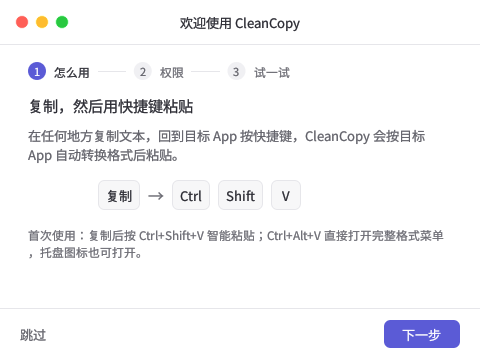
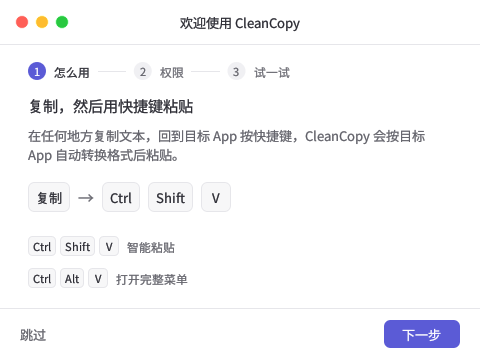
B-2: cancel hit-tests the raw press (single move+click on fresh menu); e2e screenshots default to target/, docs only with CLEANCOPY_UPDATE_SCREENSHOTS=1; onboarding box rows

diff --git a/crates/cleancopy-desktop/src/ui/menus.rs b/crates/cleancopy-desktop/src/ui/menus.rs
@@ -230,10 +230,24 @@ impl MenuState {
                         Vec2::new(54.0, 24.0),
                     );
                     text(ui, cancel.left_center(), "取消", 12.0, ACCENT);
-                    if ui
+                    // Hit-test the raw press position instead of egui's hover
+                    // state: when the menu maps under a still pointer, a single
+                    // move + click arrive in one frame and `clicked()` can miss
+                    // it (report v3 B-2). Cancelling on press is intentional.
+                    let pressed_here = ctx.input(|input| {
+                        input.events.iter().any(|event| {
+                            matches!(event, egui::Event::PointerButton {
+                                pos,
+                                button: egui::PointerButton::Primary,
+                                pressed: true,
+                                ..
+                            } if cancel.contains(*pos))
+                        })
+                    });
+                    let clicked = ui
                         .interact(cancel, ui.id().with("cancel-conversion"), Sense::click())
-                        .clicked()
-                    {
+                        .clicked();
+                    if (pressed_here || clicked) && !events.contains(&Event::Cancel { t: TIME }) {
                         events.push(Event::Cancel { t: TIME });
                     }
                     ctx.request_repaint_after(std::time::Duration::from_millis(16));
@@ -1192,9 +1206,49 @@ mod tests {
                 },
                 |ctx| events = state.show(ctx, &model, false),
             );
-            if !pressed {
+            if pressed {
                 assert_eq!(events, vec![Event::Cancel { t: TIME }]);
             }
+        }
+    }
+
+    /// Report v3 B-2: the menu maps under the pointer and the very first
+    /// input is one move plus a click, all in one frame on a fresh context
+    /// (no hover from an earlier frame). Also without any move at all.
+    #[test]
+    fn cancel_works_with_single_move_then_click_and_no_prior_hover() {
+        let mut model = render_model();
+        model.converting = true;
+        let screen = Rect::from_min_size(Pos2::ZERO, Vec2::new(960.0, 600.0));
+        let pos = Pos2::new(300.0, 200.0);
+        let click = |moved: bool| {
+            let mut input = Vec::new();
+            if moved {
+                input.push(egui::Event::PointerMoved(pos));
+            }
+            for pressed in [true, false] {
+                input.push(egui::Event::PointerButton {
+                    pos,
+                    button: egui::PointerButton::Primary,
+                    pressed,
+                    modifiers: egui::Modifiers::NONE,
+                });
+            }
+            input
+        };
+        for moved in [true, false] {
+            let ctx = egui::Context::default();
+            let mut state = MenuState::default();
+            let mut events = Vec::new();
+            let _ = ctx.run(
+                egui::RawInput {
+                    screen_rect: Some(screen),
+                    events: click(moved),
+                    ..Default::default()
+                },
+                |ctx| events = state.show(ctx, &model, false),
+            );
+            assert_eq!(events, vec![Event::Cancel { t: TIME }], "moved={moved}");
         }
     }
 

diff --git a/crates/cleancopy-desktop/tests/desktop_e2e.rs b/crates/cleancopy-desktop/tests/desktop_e2e.rs
@@ -16,6 +16,19 @@ struct Harness {
     display: String,
     bin: PathBuf,
     root: PathBuf,
+    /// Screenshot output: `target/e2e-screenshots` by default; tracked
+    /// `docs/screenshots` only with `CLEANCOPY_UPDATE_SCREENSHOTS=1`
+    /// (`scripts/e2e-desktop.sh --update-screenshots`).
+    shots: PathBuf,
+}
+fn screenshot_dir(root: &Path) -> PathBuf {
+    let dir = if std::env::var_os("CLEANCOPY_UPDATE_SCREENSHOTS").is_some_and(|v| v == "1") {
+        root.join("docs/screenshots")
+    } else {
+        root.join("target/e2e-screenshots")
+    };
+    fs::create_dir_all(&dir).unwrap();
+    dir
 }
 fn wait(label: &str, mut f: impl FnMut() -> bool) {
     let start = Instant::now();
@@ -171,7 +184,7 @@ impl Harness {
         (id, elapsed)
     }
     fn shot(&self, name: &str) {
-        let path = self.root.join(format!("docs/screenshots/e2e-{name}.png"));
+        let path = self.shots.join(format!("e2e-{name}.png"));
         // xfwm4 composites redirected windows, so a root GetImage omits the
         // menu. Capture the menu window itself whenever one is mapped.
         let mut command = Command::new(self.bin.join("examples/screenshot"));
@@ -336,6 +349,7 @@ fn desktop_runtime_matrix() {
         dir,
         display: String::new(),
         bin,
+        shots: screenshot_dir(&root),
         root,
     };
     wait("Xvfb display", || {
@@ -702,7 +716,7 @@ fn desktop_runtime_matrix() {
     thread::sleep(Duration::from_millis(500));
     let id = window.to_string();
     let capture = |n: usize| {
-        let path = h.root.join(format!("docs/screenshots/onboarding-{n}.png"));
+        let path = h.shots.join(format!("onboarding-{n}.png"));
         assert!(Command::new(h.bin.join("examples/screenshot"))
             .env("DISPLAY", &h.display)
             .arg(&path)

diff --git a/crates/cleancopy-desktop/src/ui/onboarding.rs b/crates/cleancopy-desktop/src/ui/onboarding.rs
@@ -419,7 +419,7 @@ impl OnboardingState {
                                         .id(input_id)
                                         .frame(false)
                                         .desired_width(212.0)
-                                        .desired_rows(5)
+                                        .desired_rows(4)
                                         .hint_text(format!("在这里按 {keys}")),
                                 );
                             });
@@ -443,7 +443,7 @@ impl OnboardingState {
 
 /// Height of the step-3 sample / result boxes; leaves room for the success
 /// hint plus a ≥12px gap above the footer bar.
-const TRY_BOX_HEIGHT: f32 = 100.0;
+const TRY_BOX_HEIGHT: f32 = 96.0;
 /// Success green, 5.0:1 on white (WCAG AA).
 pub(crate) const SUCCESS: Color32 = Color32::from_rgb(21, 128, 61);
 
